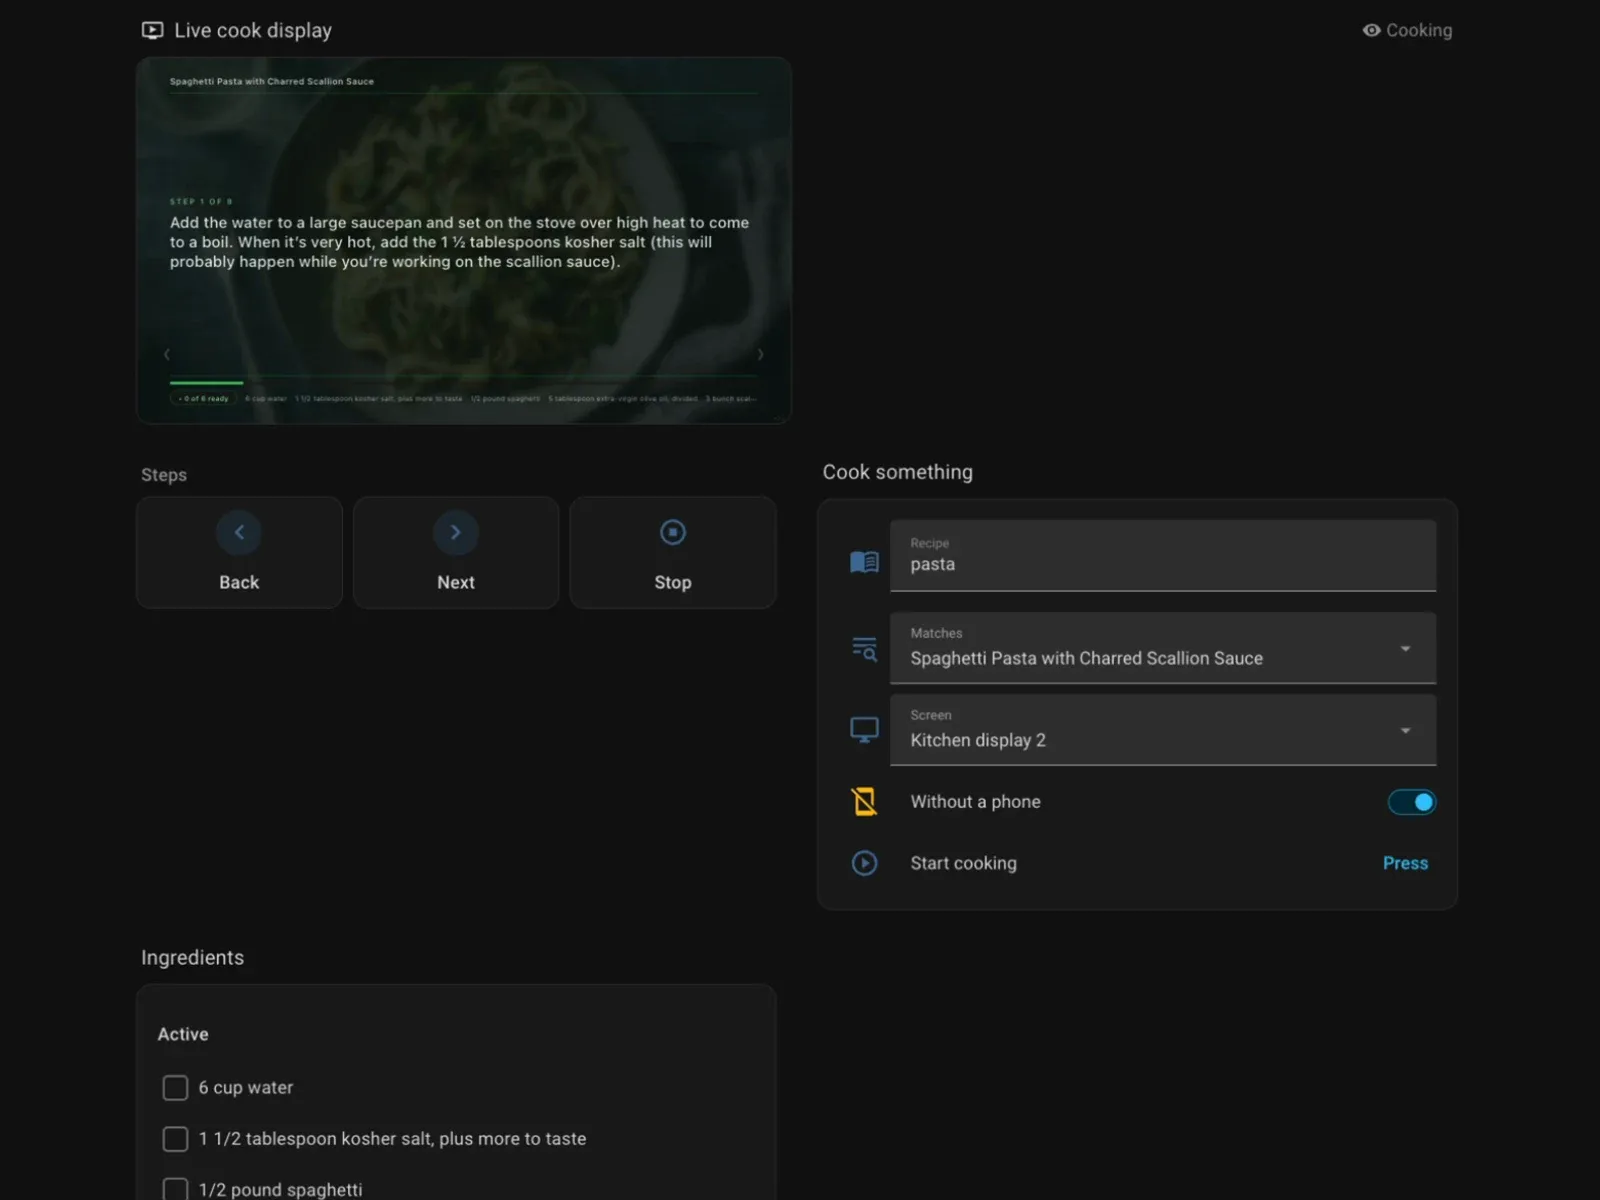
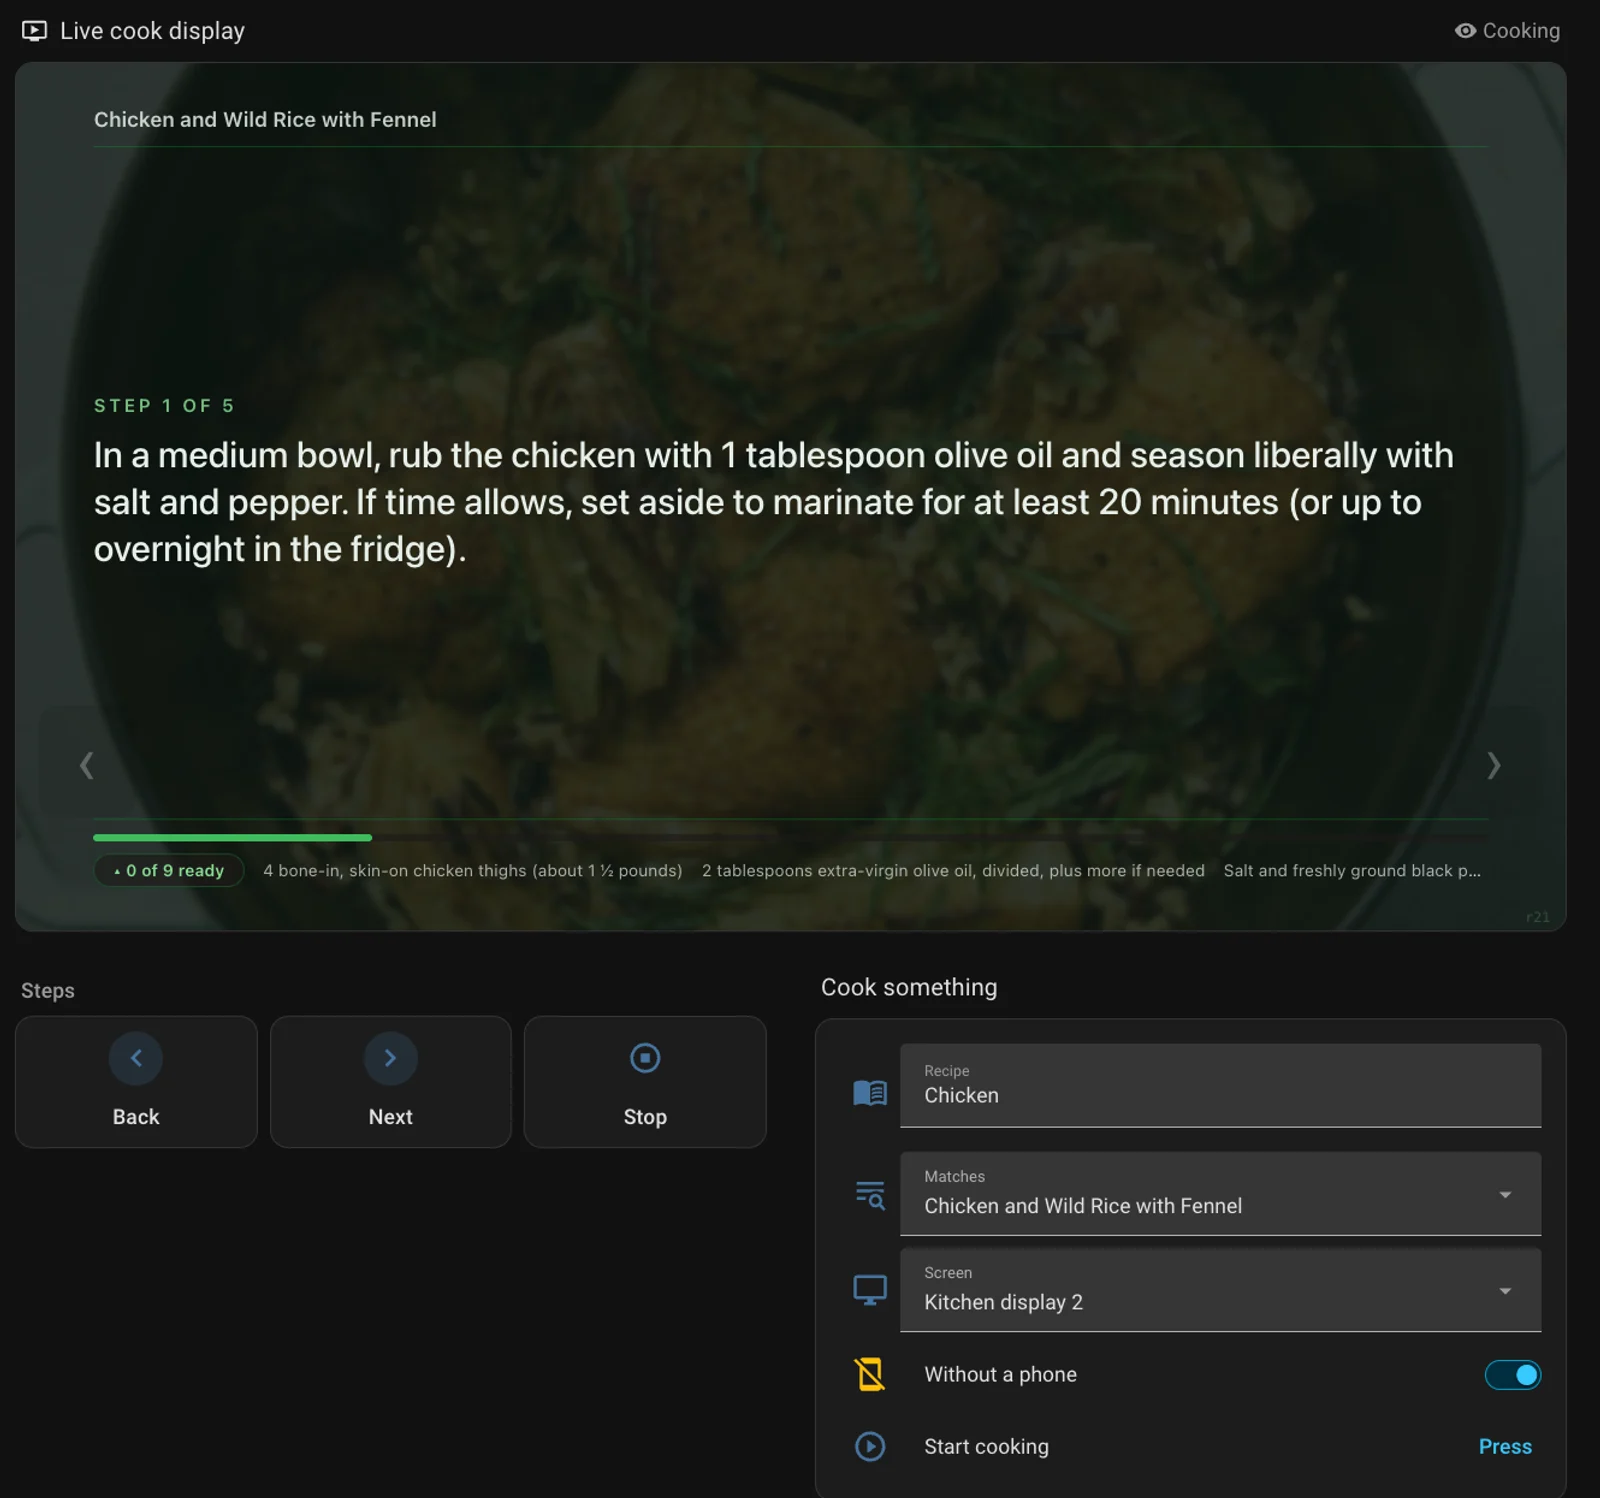
README: screenshots of the 0.10.3 dashboard — full-width live hero, Ingredients page, pairing code

diff --git a/README.md b/README.md
@@ -116,7 +116,7 @@ The "new at this step" ingredient rail is the one thing a phone-driven cook has 
 | Android TV Remote | `media_player.play_media` (url) | nothing else |
 
 <p align="center">
-  <img src="docs/screenshots/dashboard-cooking.webp" alt="The weReci dashboard in Home Assistant while cooking: the live cook display at the top, Back / Next / Stop, the Cook something form and the recipe's ingredients as a to-do list" width="880">
+  <img src="docs/screenshots/dashboard-cooking.webp" alt="The weReci dashboard in Home Assistant while cooking: the live cook display fills the top of the page with the recipe's photo and the current step, then Back / Next / Stop and the Cook something form" width="880">
 </p>
 
 **The weReci dashboard** appears in the sidebar by itself — there is nothing to build. Start a cook from it: type what you want under **Recipe** (words, or a recipe id) — weReci is searched in the background and **Matches** fills with what it found. Words that name one recipe pick it for you; a vague word (“pasta”) leaves the pick to you. Then pick a screen, choose whether a phone is involved, press **Start cooking**. Building your own card? `select.…_matches` carries the whole search as attributes: `query`, `searching`, `error`, `recipe_id` (the pick) and `matches` (`id`, `title`, `cuisine`, `cookbook`). While a display is up, the page is headed by the live cook display itself — the very page the kitchen screen shows, in a frame, so it takes taps just like the screen does (scaling, swaps, Break it down); when nothing is cooking, the cooking picture with the search line under it takes that place. Below sit Back / Next / Stop, those controls and, once a recipe is up, the ingredients as a to-do list: ticking a box there is the same check-off as a tap on the kitchen screen, and a tick on the screen (or the phone) moves the box here. On a phone-width screen the frame is small and the receiver's text with it; the step buttons and the ingredients under it are the readable copy there. The next tab over is your synced shopping list (List It), so the cook and the shop live in one place. The same dashboard holds the hidden full-screen view that Cast devices and browser_mod browsers are shown; it points at a local address (`display_path` on `sensor.…_cooking`) that forwards to whichever cook display is live. Treat `display_path` like a password for your kitchen screen: anyone who can reach your Home Assistant and knows it can see the recipe step being cooked, and nothing else.
@@ -129,6 +129,14 @@ The "new at this step" ingredient rail is the one thing a phone-driven cook has 
   <tr>
     <td align="center"><sub>Nothing cooking: search, then pick under <b>Matches</b></sub></td>
     <td align="center"><sub>The entities, and the shared shopping list as a to-do</sub></td>
+  </tr>
+  <tr>
+    <td align="center"><img src="docs/screenshots/receiver-ingredients.webp" alt="The live cook display opened on its Ingredients page inside the dashboard: ½× / 1× / 2× / 3× scale chips, each ingredient with a swap arrow, two lines already ticked" width="440"></td>
+    <td align="center"><img src="docs/screenshots/display-pairing.webp" alt="The live cook display waiting for a phone: the weReci mark and a six-letter pairing code above 'Enter this code in Cook Mode'" width="440"></td>
+  </tr>
+  <tr>
+    <td align="center"><sub>The frame takes taps like the screen does: scale, swap, tick</sub></td>
+    <td align="center"><sub>Waiting for a phone: the code on the display, the link on your phone</sub></td>
   </tr>
 </table>
 
